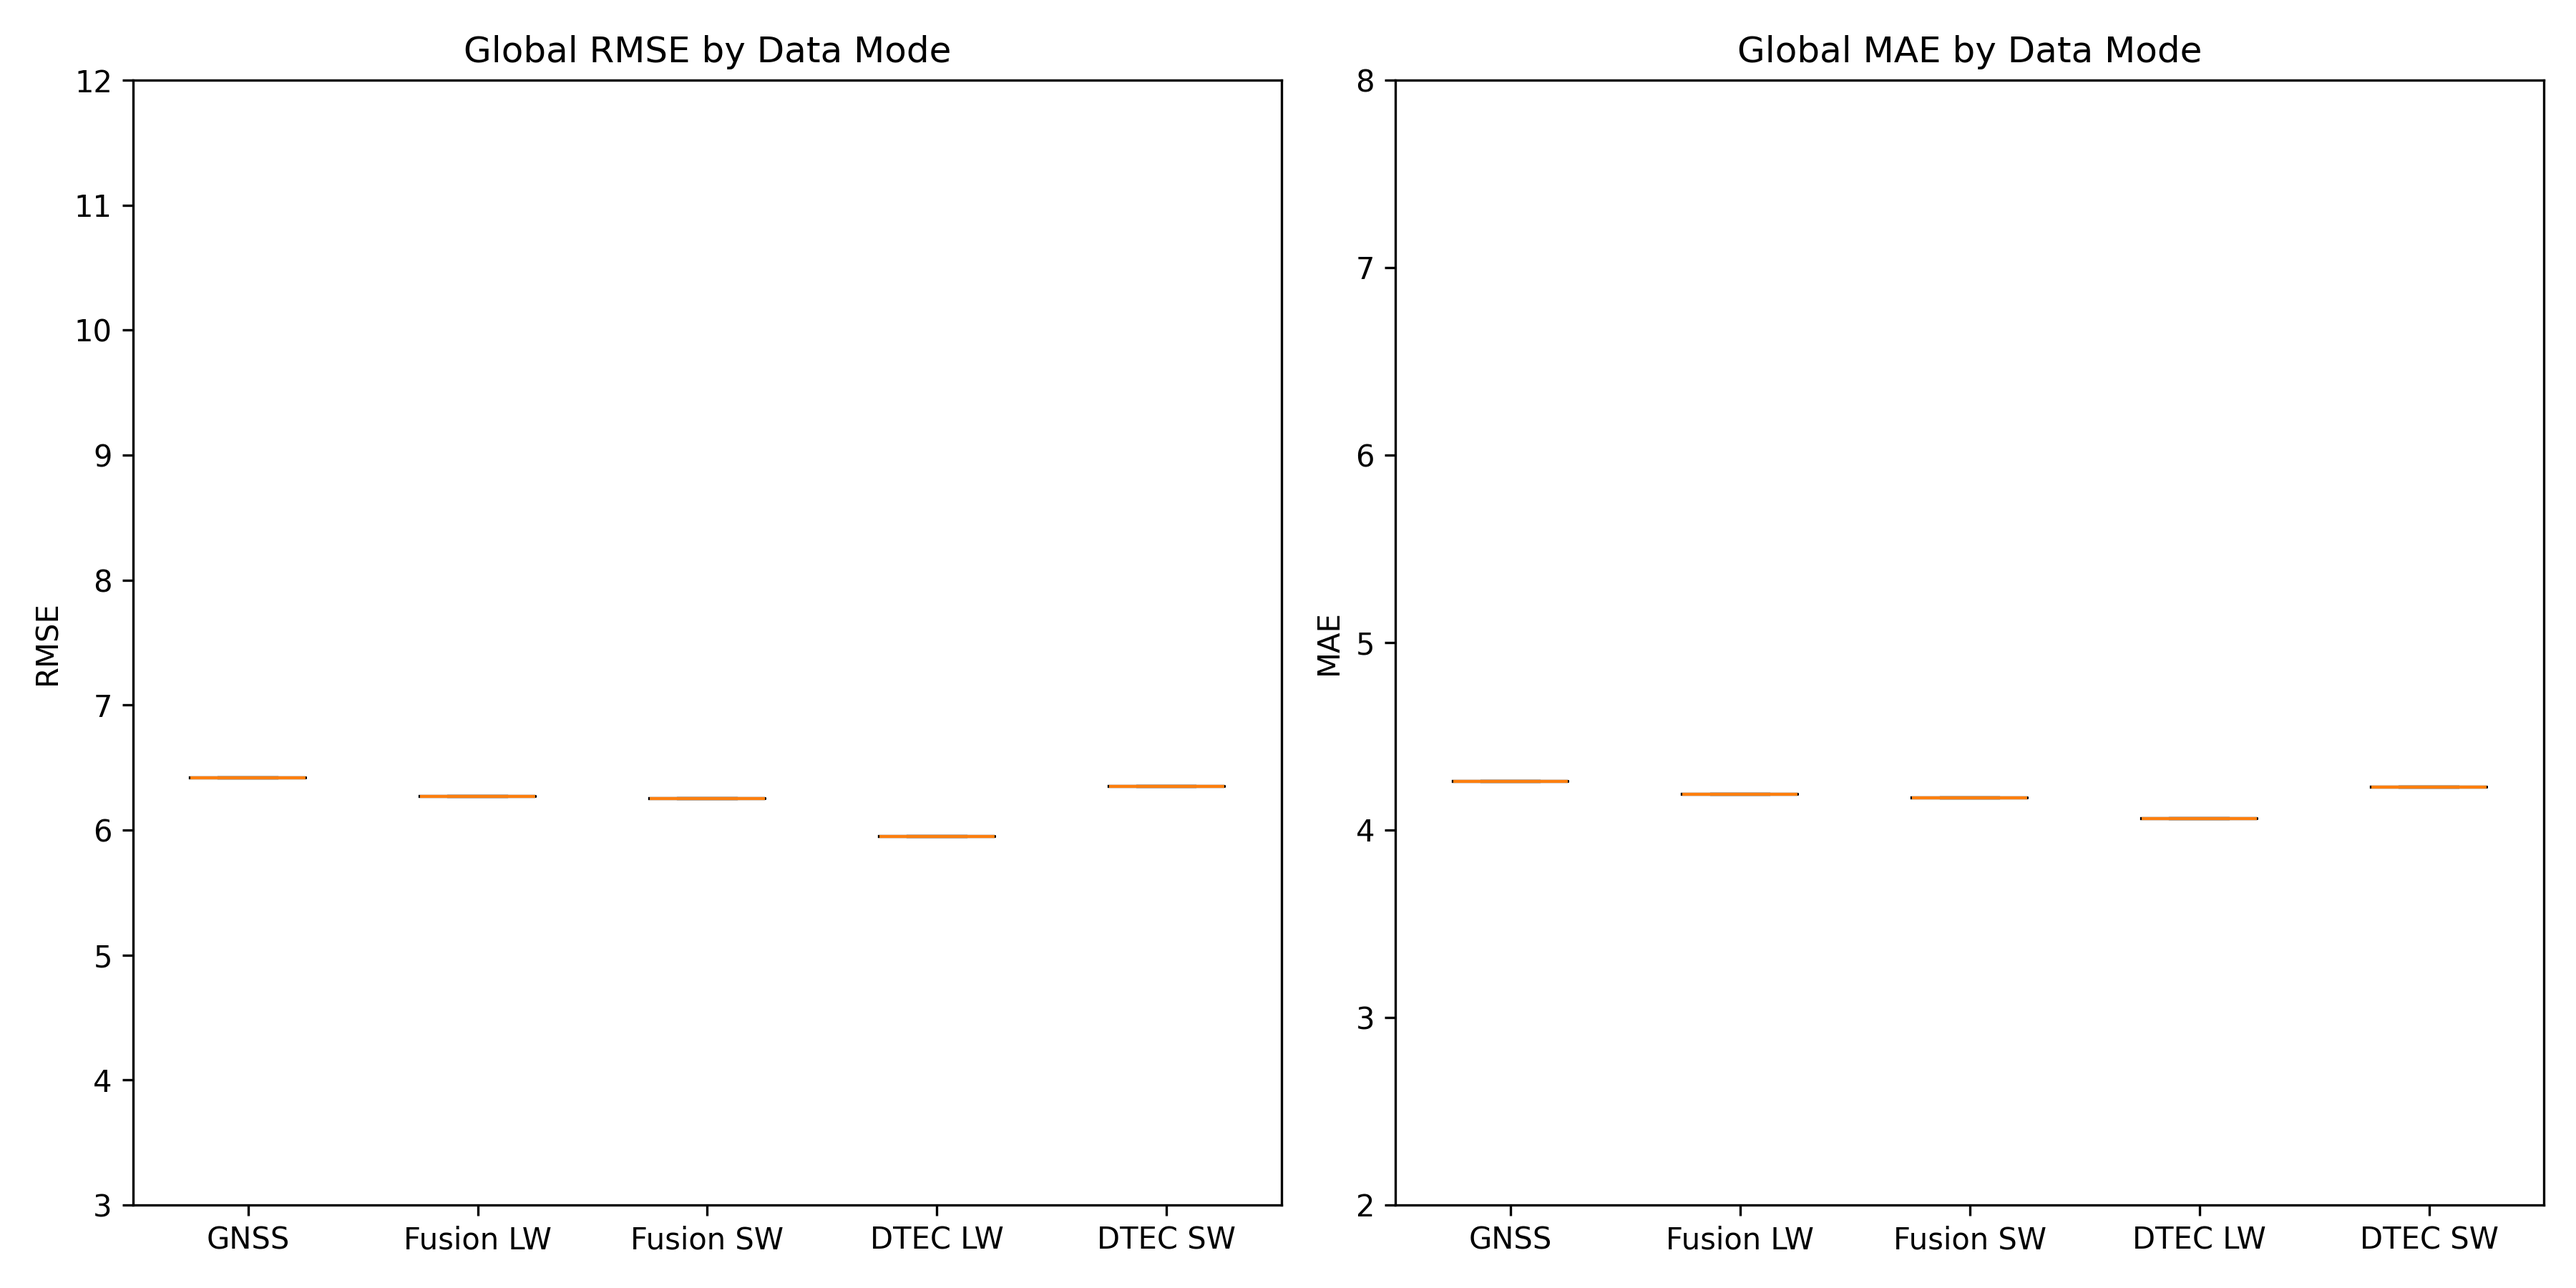
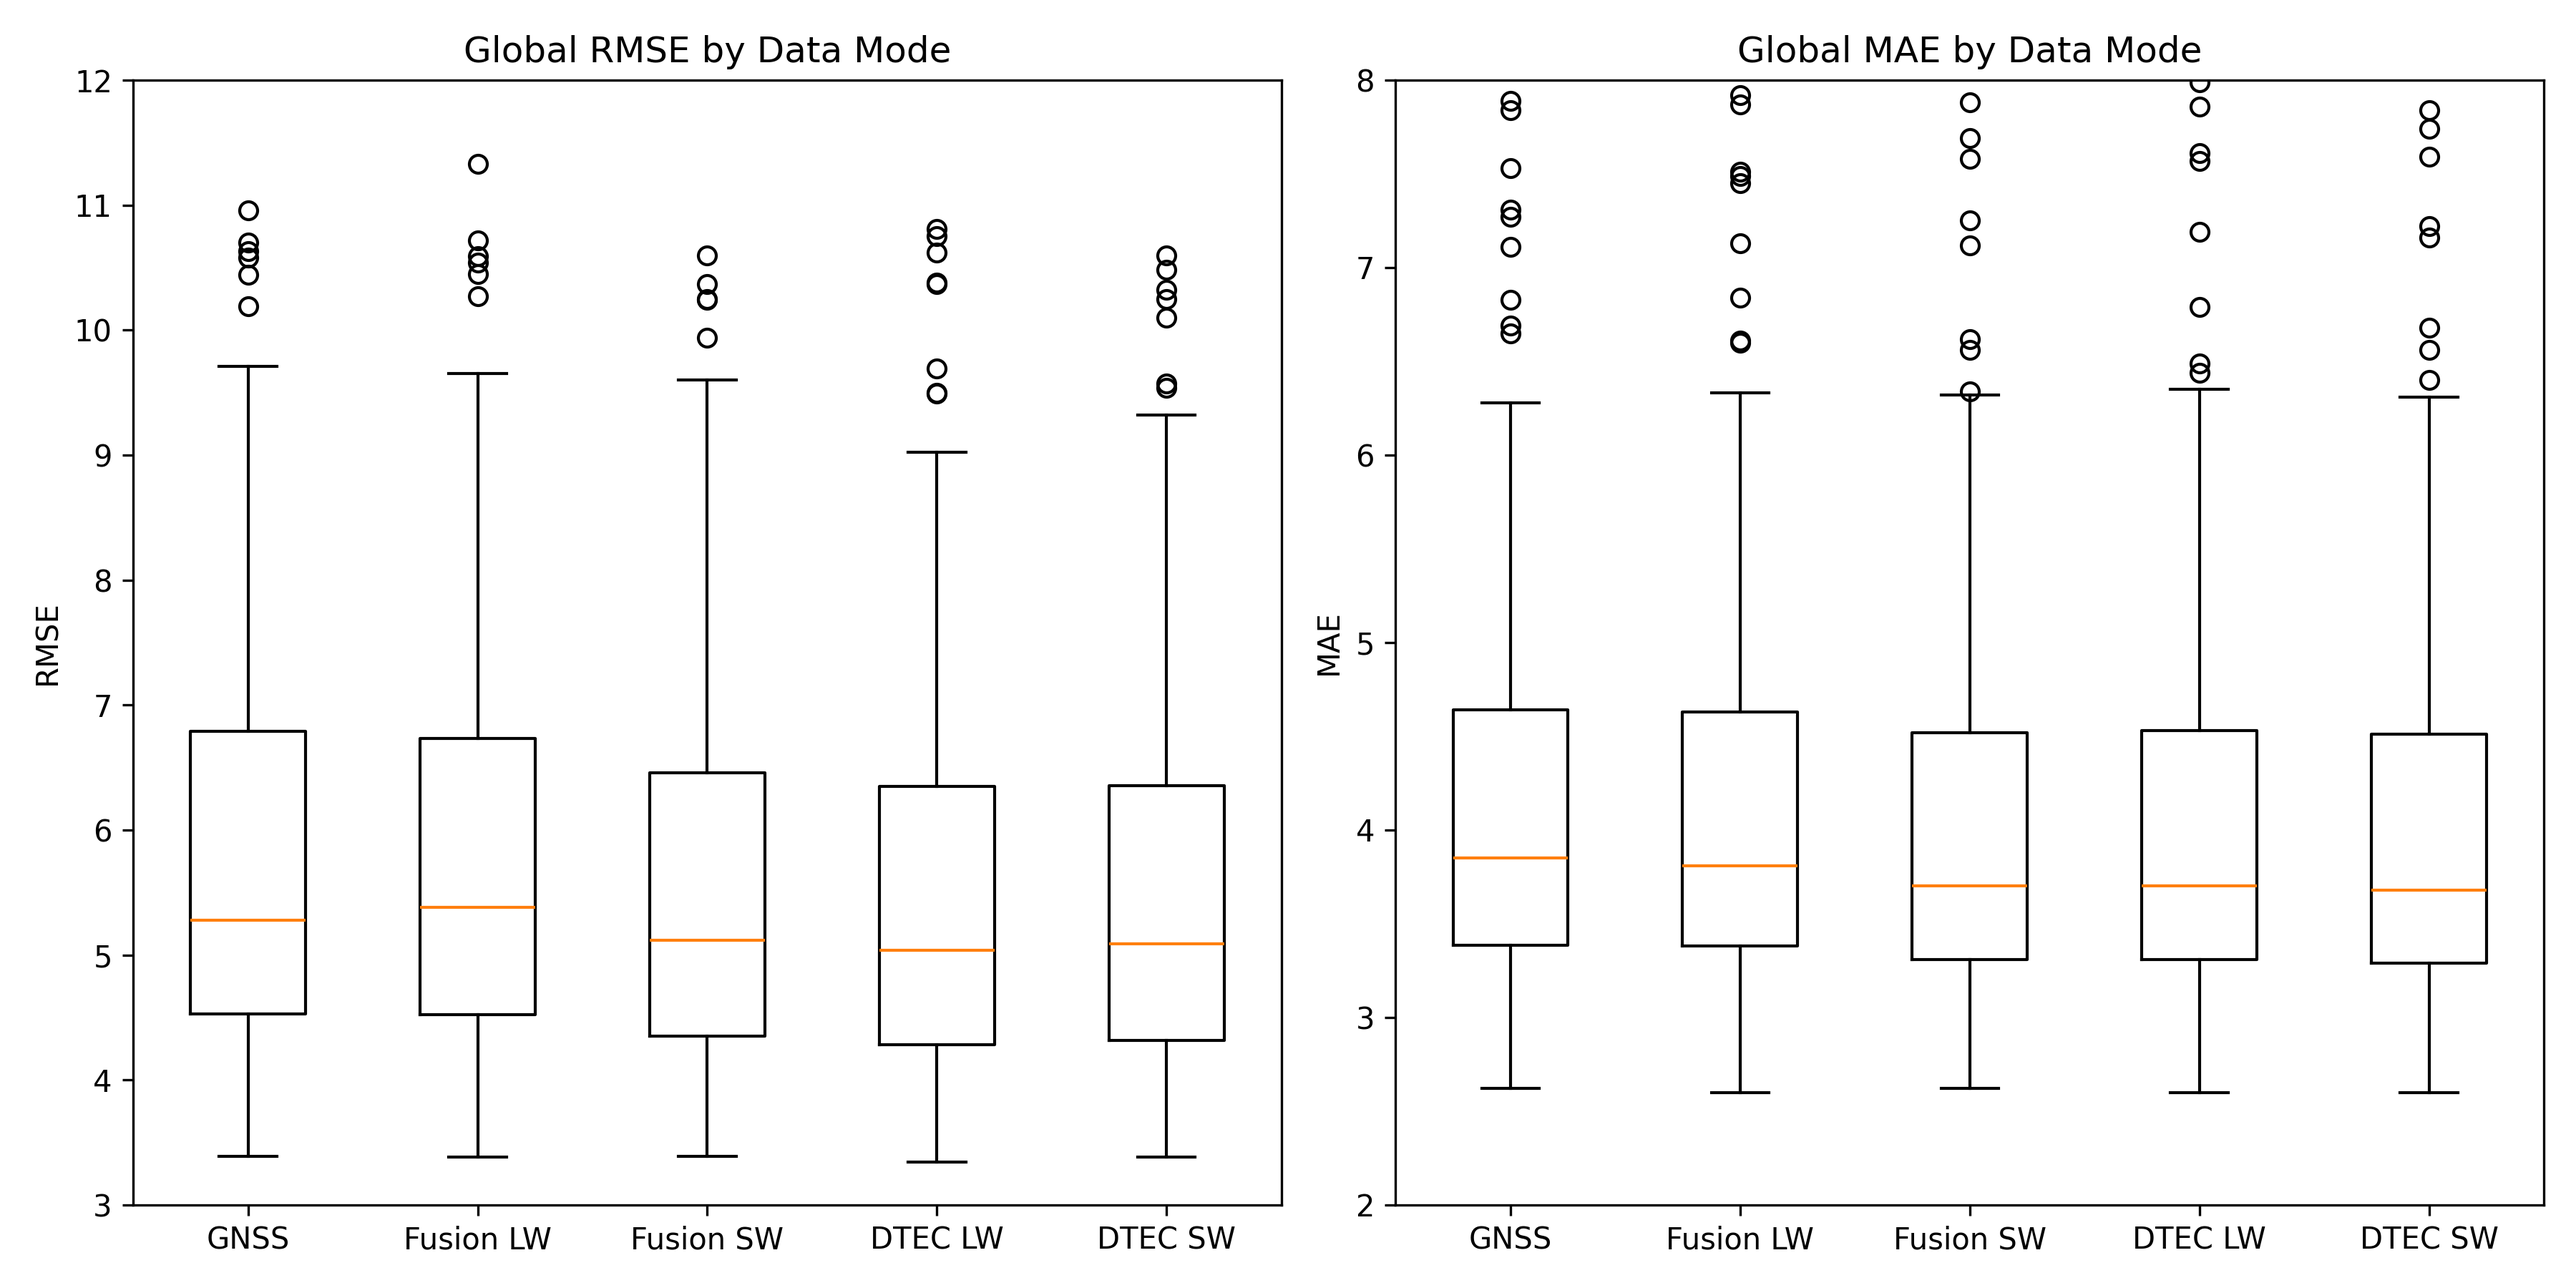
updated boxplots and added regional analysis boxplots for kokee

diff --git a/scripts/eval_SA_results.py b/scripts/eval_SA_results.py
@@ -70,121 +70,6 @@ def read_experiment(experiment_folder, experiment_name):
 
     return df_row
 
-def evaluate_old(df):
-    print("Number of experiments processed in total: ", len(df))
-    # Define your grouping columns
-    group_columns = ['data_mode', 'training_vlbi_loss_weight', 'training_vlbi_sampling_weight']
-
-    # Expected unique combinations for the groups
-    expected_combinations = set([
-        ('GNSS', 1, 1),
-        ('Fusion', 1000, 1),
-        ('Fusion', 1, 1000),
-        ('DTEC_Fusion', 100, 1),
-        ('DTEC_Fusion', 1, 100)
-    ])
-
-    group_name_mapping = {
-        ('GNSS', 1, 1): 'GNSS',
-        ('Fusion', 1000, 1): 'Fusion LW',
-        ('Fusion', 1, 1000): 'Fusion SW',
-        ('DTEC_Fusion', 100, 1): 'DTEC LW',
-        ('DTEC_Fusion', 1, 100): 'DTEC SW'
-    }
-
-    # Group by 'doy' and check if all expected combinations are present
-    valid_doys = df.groupby('doy').filter(
-        lambda g: set(map(tuple, g[group_columns].values)) == expected_combinations
-    )['doy'].unique()
-
-    # Filter original DataFrame to keep only valid DOYs
-    df = df[df['doy'].isin(valid_doys)]
-    print("Number of experiments where all 5 scenarios were executed successfully: ", len(df))
-
-    # Convert RMSE and MAE to numeric
-    df["global RMSE"] = pd.to_numeric(df["global RMSE"], errors='coerce')
-    df["global MAE"] = pd.to_numeric(df["global MAE"], errors='coerce')
-
-    df_mode = df.groupby(['data_mode', 'training_vlbi_loss_weight', 'training_vlbi_sampling_weight'])
-    
-    # Define consistent bins and range for RMSE and MAE
-    bins_rmse = np.linspace(df['global RMSE'].min(), df['global RMSE'].max(), 20)
-    bins_mae = np.linspace(df['global MAE'].min(), df['global MAE'].max(), 20)
-
-    plt.figure(figsize=(14, 6))
-
-    plt.subplot(1, 2, 1)
-    for name, group in df_mode:
-        plt.hist(group['global RMSE'], bins=bins_rmse, alpha=0.5, label=group_name_mapping[name], edgecolor='black')
-    plt.title('RMSE by Data Mode')
-    plt.xlabel('RMSE')
-    plt.legend()
-
-    plt.subplot(1, 2, 2)
-    for name, group in df_mode:
-        plt.hist(group['global MAE'], bins=bins_mae, alpha=0.5, label=group_name_mapping[name], edgecolor='black')
-    plt.title('MAE by Data Mode')
-    plt.xlabel('MAE')
-    plt.legend()
-
-    plt.tight_layout()
-    plt.savefig('scripts/RMSE_MAE_hist_by_data_mode.png', dpi=300)
-
-    # Create subplots with 5 rows and 2 columns (RMSE left, MAE right)
-    fig, axes = plt.subplots(5, 2, figsize=(14, 18), sharex=True, sharey=True)
-
-    for i, (name, group) in enumerate(df_mode):
-        mode_label = group_name_mapping.get(name, str(name))
-        
-        # RMSE subplot (left)
-        axes[i, 0].hist(group['global RMSE'], bins=bins_rmse, alpha=0.6, label=f'{mode_label} RMSE', color='tab:blue', edgecolor='black')
-        axes[i, 0].set_title(f'{mode_label} RMSE')
-        axes[i, 0].set_ylabel('Frequency')
-        axes[i, 0].legend()
-
-        # MAE subplot (right)
-        axes[i, 1].hist(group['global MAE'], bins=bins_mae, alpha=0.6, label=f'{mode_label} MAE', color='tab:orange', edgecolor='black')
-        axes[i, 1].set_title(f'{mode_label} MAE')
-        axes[i, 1].legend()
-
-    # Add a common x-axis label for both columns
-    axes[-1, 0].set_xlabel('RMSE Value')
-    axes[-1, 1].set_xlabel('MAE Value')
-
-    plt.tight_layout()
-    plt.savefig('scripts/RMSE_MAE_hist_subplots.png', dpi=300)
-
-    plt.figure(figsize=(12, 6))
-
-    # First subplot (RMSE)
-    ax1 = plt.subplot(1, 2, 1)
-    data_rmse = [group['global RMSE'].values for name, group in df_mode]
-    plt.boxplot(data_rmse, tick_labels=[group_name_mapping[name] for name in df_mode.groups.keys()])
-    ax1.set_ylim(bottom=0)
-    plt.title('RMSE by Data Mode')
-    plt.xlabel('Data Mode')
-    plt.ylabel('RMSE')
-
-    # Second subplot (MAE)
-    ax2 = plt.subplot(1, 2, 2)
-    data_mae = [group['global MAE'].values for name, group in df_mode]
-    plt.boxplot(data_mae, tick_labels=[group_name_mapping[name] for name in df_mode.groups.keys()])
-    ax2.set_ylim(bottom=0) 
-    plt.title('MAE by Data Mode')
-    plt.xlabel('Data Mode')
-    plt.ylabel('MAE')
-
-    # Save the plot with full range
-    plt.tight_layout()
-    plt.savefig('scripts/RMSE_MAE_boxplots_by_data_mode.png', dpi=300)
-
-    # Adjust limits for cropped version
-    ax1.set_ylim(3, 12) 
-    ax2.set_ylim(2, 8) 
-
-    plt.tight_layout()
-    plt.savefig('scripts/RMSE_MAE_boxplots_by_data_mode_nooutliers.png', dpi=300)
-
 def evaluate(df):
     print("Number of experiments processed in total:", len(df))
     group_columns = ['data_mode', 'training_vlbi_loss_weight', 'training_vlbi_sampling_weight']
@@ -253,15 +138,16 @@ def evaluate(df):
 
     # Per-station boxplots
     for st in stations:
-        data_s_rmse = [grp[f'{st}_RMSE'].values for _,grp in df_mode]
-        data_s_mae  = [grp[f'{st}_MAE'].values  for _,grp in df_mode]
+        print(f"Plotting boxplots for station {st}...")
+        data_s_rmse = [grp[f'{st}_RMSE'].dropna().values for _, grp in df_mode]
+        data_s_mae  = [grp[f'{st}_MAE'].dropna().values  for _, grp in df_mode]
         plt.figure(figsize=(12,6))
         plt.subplot(1,2,1)
         plt.boxplot(data_s_rmse, labels=labels); plt.title(f'{st.capitalize()} RMSE by Data Mode')
-        plt.ylim(3, 12)
+        plt.ylim(0, 15)
         plt.subplot(1,2,2)
         plt.boxplot(data_s_mae, labels=labels); plt.title(f'{st.capitalize()} MAE by Data Mode')
-        plt.ylim(3, 12) 
+        plt.ylim(0, 12) 
         plt.tight_layout(); plt.savefig(f'scripts/{st}_box_by_data_mode.png', dpi=300)
 
 
@@ -271,7 +157,7 @@ def main():
     """
 
     experiments_folder = '/cluster/work/igp_psr/arrueegg/WP2/GIM_fusion_VLBI/experiments/'
-    experiments_folder = '/scratch2/arrueegg/WP2/GIM_fusion_VLBI/experiments/'
+    #experiments_folder = '/scratch2/arrueegg/WP2/GIM_fusion_VLBI/experiments/'
     
     df = pd.DataFrame()
     for experiment_name in os.listdir(experiments_folder):
@@ -279,6 +165,7 @@ def main():
             df = pd.concat([df, read_experiment(experiments_folder, experiment_name)], ignore_index=True)
 
     # Evaluate the results
+    print("Evaluating results...")
     evaluation_results = evaluate(df)
     
     # Print or save the evaluation results
